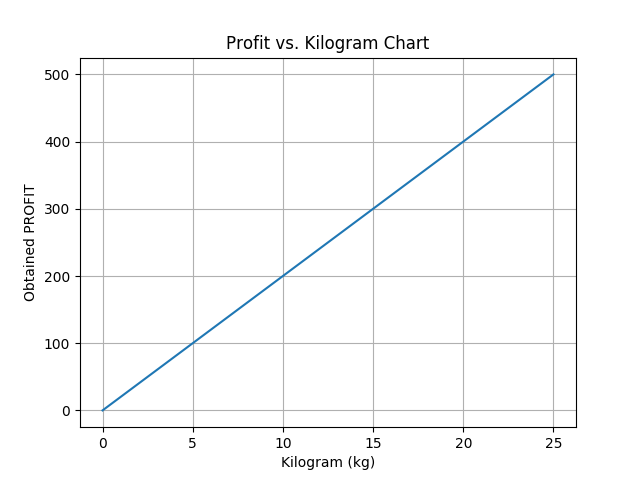
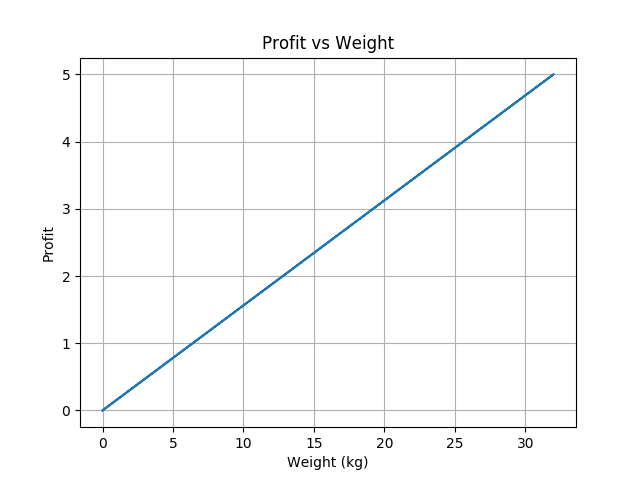
pso

diff --git a/main.py b/main.py
@@ -1,42 +1,42 @@
 import math
 import random
 import matplotlib.pyplot as plt
+import dataset as t
 
 
-# --- COST FUNCTION
-# function we are attempting to optimize (minimize)
-def maximize(x):
-    t = profit(x)
-    return t + kilogram(x, t)
+# -------- COST FUNCTION --------
+# function we are attempting to optimize (maximize profit)
+def maximize(items):
+    t = profit(items)
+    return t + check_weight(items, t)
 
 
-# The function we are trying to maximize ...
-def profit(x):
+# The function we are trying to maximize
+def profit(items):
     total = 0
-    for i in range(len(x)):
-        total += x[i] * value[i]  # x * value
+    for i in range(len(items)):
+        total += items[i] * value[i]  # x * value
     return total
 
-    # If kilogram exceeds max_weight;
-    # returning the negative of the 1st function value as penalty points from the function,
-    # reset_elements the result value so that it does not take the existing value ...
 
-
-def kilogram(x, reset_element):
+# If total weight exceeds max_weight;
+# returning the negative of the 1st function value as penalty points from the function,
+# reset the result value so that it does not take the existing value
+def check_weight(items, element):
     total = 0
-    for i in range(len(x)):
-        total += x[i] * weight[i]
+    for i in range(len(items)):
+        total += items[i] * weight[i]
 
     if total <= max_weight:
-        if total <= reset_element:
-            return reset_element - total
+        if total <= element:
+            return element - total
         else:
             return 0
     else:
-        return -reset_element
+        return -element
 
 
-# PARTICLE
+# -------- PARTICLE --------
 class Particle:
     def __init__(self, x):
         self.position = []  # particle position
@@ -45,44 +45,47 @@ class Particle:
         self.err_personal_best = -1  # best error individual
         self.err_personal = -1  # error individual
 
-        for i in range(num_dimensions):  # (0, num_dimensions):
+        # create n(=num_dimensions) random particles
+        for i in range(num_dimensions):
             self.velocity.append(random.uniform(-1, 1))
             self.position.append(x[i])
 
     # evaluate current fitness
     def evaluate(self, cost_func):
-        self.err_personal = cost_func(self.position)
+        self.err_personal = cost_func(self.position)  # cost_func --> maximize
 
-        # check to see if the current position is an individual best
+        # check to see if the current position is personal best
         if self.err_personal > self.err_personal_best or self.err_personal_best == -1:
             self.personal_best = self.position
             self.err_personal_best = self.err_personal
 
     def update_velocity(self, global_best):
         w = 0.9  # constant inertia weight (how much to weigh the previous velocity)
-        c1 = 1.9  # cognitive constant
-        c2 = 1.9  # social constant
+        c1 = 1.5  # cognitive constant (particle)
+        c2 = 1.5  # social constant (swarm)
 
-        for i in range(num_dimensions):
+        for i in range(num_dimensions):   # process each particle
             r1 = random.random()
             r2 = random.random()
-
+            # compute new velocity of current particle
             cognitive = c1 * r1 * (self.personal_best[i] - self.position[i])
             social = c2 * r2 * (global_best[i] - self.position[i])
             self.velocity[i] = w * self.velocity[i] + cognitive + social
 
     def update_position(self, bounds):
-        for i in range(num_dimensions):
+        for i in range(num_dimensions):  # process each particle
             max_bounds = (bounds[i][1] - bounds[i][0])
 
+            # check if current velocity it's out of bound
             if self.velocity[i] < -max_bounds:
                 self.velocity[i] = -max_bounds
             elif self.velocity[i] > max_bounds:
                 self.velocity[i] = max_bounds
 
-            self.position[i] = self.position[i] + self.velocity[i]
+            # compute new position using new velocity
+            self.position[i] += self.velocity[i]
 
-            if self.position[i] > bounds[i][0]:
+            if self.position[i] > bounds[i][1]:
                 # If the position is above the upper limit value, pull to the upper limit value
                 self.position[i] = bounds[i][1]
             elif self.position[i] < bounds[i][0]:
@@ -91,9 +94,9 @@ class Particle:
             else:
                 self.position[i] = round(self.position[i])
 
-
+# -------- PSO --------
 class PSO:
-    step_kg, step_profit, global_best, err_global_best = [], [], [], -1
+    step_weight, step_profit, global_best, err_global_best = [], [], [], -1
 
     def __init__(self, cost_func, x, bounds, num_particles, max_iter, verbose=False):
         global num_dimensions
@@ -110,8 +113,8 @@ class PSO:
         # begin optimization loop
         iteration = 0
         while iteration < max_iter:
-            # cycle through particles in swarm and evaluate fitness
-            for j in range(0, num_particles):
+            #  evaluate fitness of particles in swarm
+            for j in range(num_particles):
                 swarm[j].evaluate(cost_func)
 
                 # determine if current particle is the best (globally)
@@ -119,49 +122,46 @@ class PSO:
                     self.global_best = list(swarm[j].position)
                     self.err_global_best = float(swarm[j].err_personal)
 
-            # cycle through swarm and update velocities and position
-            for j in range(0, num_particles):
+            # update velocities and position
+            for j in range(num_particles):
                 swarm[j].update_velocity(self.global_best)
                 swarm[j].update_position(bounds)
 
             total_profit = 0
-            total_kg = 0
-
+            total_weight = 0
             for i in range(num_particles):
                 total_profit += self.global_best[i] * value[i]
-                total_kg += self.global_best[i] * weight[i]
+                total_weight += self.global_best[i] * weight[i]
 
             self.step_profit.append(total_profit)
-            self.step_kg.append(total_kg)
+            self.step_weight.append(total_weight)
 
             if verbose:
-                print(f'iter: {iteration:>4d}, best solution: {self.err_global_best:10.6f}')
+                print(f'iter: {iteration:>4d}, global best solution: {self.global_best}')
             iteration += 1
 
-            if verbose:
-                print(self.global_best)
-
+    # -------- result --------
+    def Result(self):
         # print final results
-        print('\nFINAL:')
+        print('\nFINAL RESULTS:')
         print(f'global best -> {self.global_best}')
         print(f'err global best -> {self.err_global_best}')
-
-    def Result(self):
-        print('\n\nRESULTS:\n\n')
         total_profit = 0
-        total_kg = 0
+        total_weight = 0
         for i in range(len(self.global_best)):
-            print(objects[i], ': ', self.global_best[i], sep='')
+            # print("object ", i, ': ', self.global_best[i], sep='')
+            # print(object[i], ': ', self.global_best[i], sep='')
             total_profit += self.global_best[i] * value[i]
-            total_kg += self.global_best[i] * weight[i]
-        print('#' * 50, '\nProfit: ', total_profit, ',\nKg: ', total_kg, sep='')
+            total_weight += self.global_best[i] * weight[i]
+        print('-' * 20, '\n# obj: ', obj_num, '\nmax weight: ', max_weight)
+        print('\nProfit: ', total_profit, ',\nWeight (Kg): ', total_weight,'\n',  '-' * 20, sep='')
 
     # Plotting the results with plot [If we do not want to save the result image to the computer, the parameter named 'file_name' must remain empty!] ...
     def plot_result(self, file_name=''):
-        plt.plot(self.step_kg, self.step_profit)
-        plt.xlabel('Kilogram (kg)')
-        plt.ylabel('Obtained PROFIT')
-        plt.title('Profit vs. Kilogram Chart')
+        plt.plot(self.step_weight, self.step_profit)
+        plt.xlabel('Weight (kg)')
+        plt.ylabel('Profit')
+        plt.title('Profit vs Weight')
         plt.grid(True)
 
         if not (
@@ -169,32 +169,63 @@ class PSO:
             file_name = file_name + ".png"
             plt.savefig(file_name)
 
-        plt.show()
+        # plt.show()
         plt.close()
 
 
-# Global var
-objects = ['Television', 'Camera', 'Projector', 'Walkman', 'Radio', 'Mobile Phone', 'Laptop Computer']
-value = [40, 85, 135, 10, 25, 2, 94]
-weight = [11, 3, 9, 0.5, 7, 0.5, 4]
-max_weight = 25
+# # Global var
+# object = ['Television', 'Camera', 'Projector', 'Walkman', 'Radio', 'Mobile Phone', 'Laptop Computer']
+# value = [35, 85, 135, 10, 25, 2, 94]
+# weight = [2, 3, 9, 0.5, 2, 0.1, 4]
+# max_weight = 50
+#
+# # --- EXECUTE
+# print('[item_name: lower limit - upper limit] \n', sep='')
+# initial = []
+# bounds = []
+# for i in range(len(object)):
+#     initial.append(0)   # [x1, x2, ...]
+#     bounds.append(
+#         (initial[i], math.floor(max_weight / weight[i])))  # [(x1_min,x1_max),(x2_min,x2_max)...]
+#     print(object[i], ': ', bounds[i][0], '-', bounds[i][1], sep='')
+# print('\nThere are a total of ', len(object), ' variable...\n\n', sep='')
+#
+# #   (cost_func, x, bounds, num_particles, max_iter):
+# pso = PSO(maximize, initial, bounds, len(object), max_iter=20, verbose=True)
+# pso.Result()
+# pso.plot_result(file_name="pso_result")
 
-# --- EXECUTE
-print('[item_name: lower limit - upper limit] \n', sep='')
+
+# -------- MAIN --------
+
+num = input("insert number from 1 to 10: ")
+print('profit, weight')
+dataset = t.data(True, int(num)-1)
+value = []
+weight = []
+for i in dataset:
+    if i == 0:
+        max_weight = dataset[i][1]
+        obj_num = dataset[i][0]
+    else:
+        # print(dataset[i][0], "\t\t", dataset[i][1])
+        value.append(dataset[i][0])
+        weight.append(dataset[i][1])
+
+# -------- EXECUTE --------
+print('\n[lower limit - upper limit]', sep='')
 initial = []
 bounds = []
-for i in range(len(objects)):
-    initial.append(0)
+length = len(value)
+for i in range(len(weight)):
+    initial.append(0)   # [x1, x2, ...]
     bounds.append(
-        (initial[i], math.floor(max_weight / weight[i])))
-    print(objects[i], ': ', bounds[i][0], '-', bounds[i][1], sep='')
-print('\nThere are a total of ', len(objects), ' variable...\n\n', sep='')
+        (initial[i], math.floor(max_weight / weight[i])))  # [(x1_min,x1_max),(x2_min,x2_max)...]
+    # print('object', i, ': ', bounds[i][0], '-', bounds[i][1], sep='')
+print('There are a total of ', length, ' variable...\n', sep='')
 
-#   (cost_func, x, bounds, num_particles, max_iter):
-pso = PSO(maximize, initial, bounds, len(objects), max_iter=20, verbose=True)
+max_iter = int(input("Insert max of iteration: "))
+num_particles = int(input("Insert number of particles: "))
+pso = PSO(maximize, initial, bounds, num_particles, max_iter, verbose=True)
 pso.Result()
 pso.plot_result(file_name="pso_result")
-
-# initial = [5, 5]  # initial starting location [x1,x2...]
-# bounds = [(-10, 10), (-10, 10)]  # input bounds [(x1_min,x1_max),(x2_min,x2_max)...]
-# PSO(cost, initial, bounds, num_particles=15, max_iter=30)
